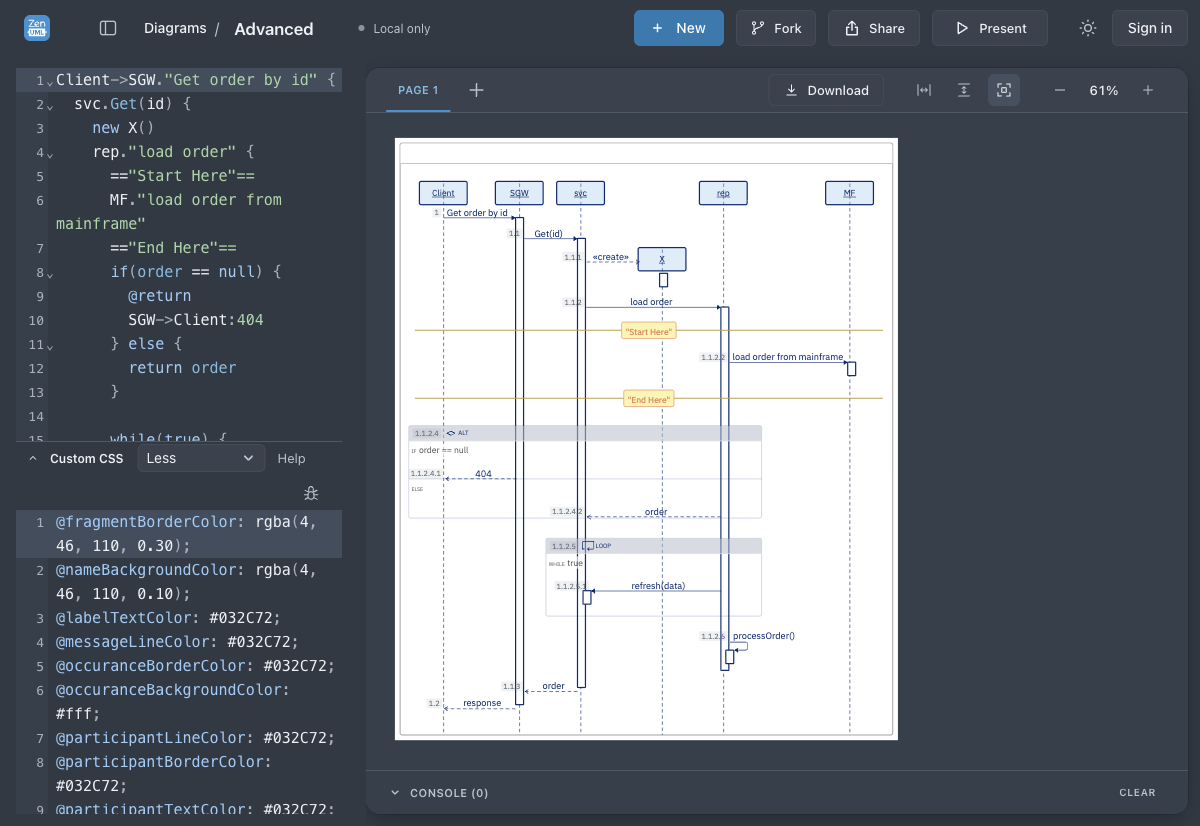
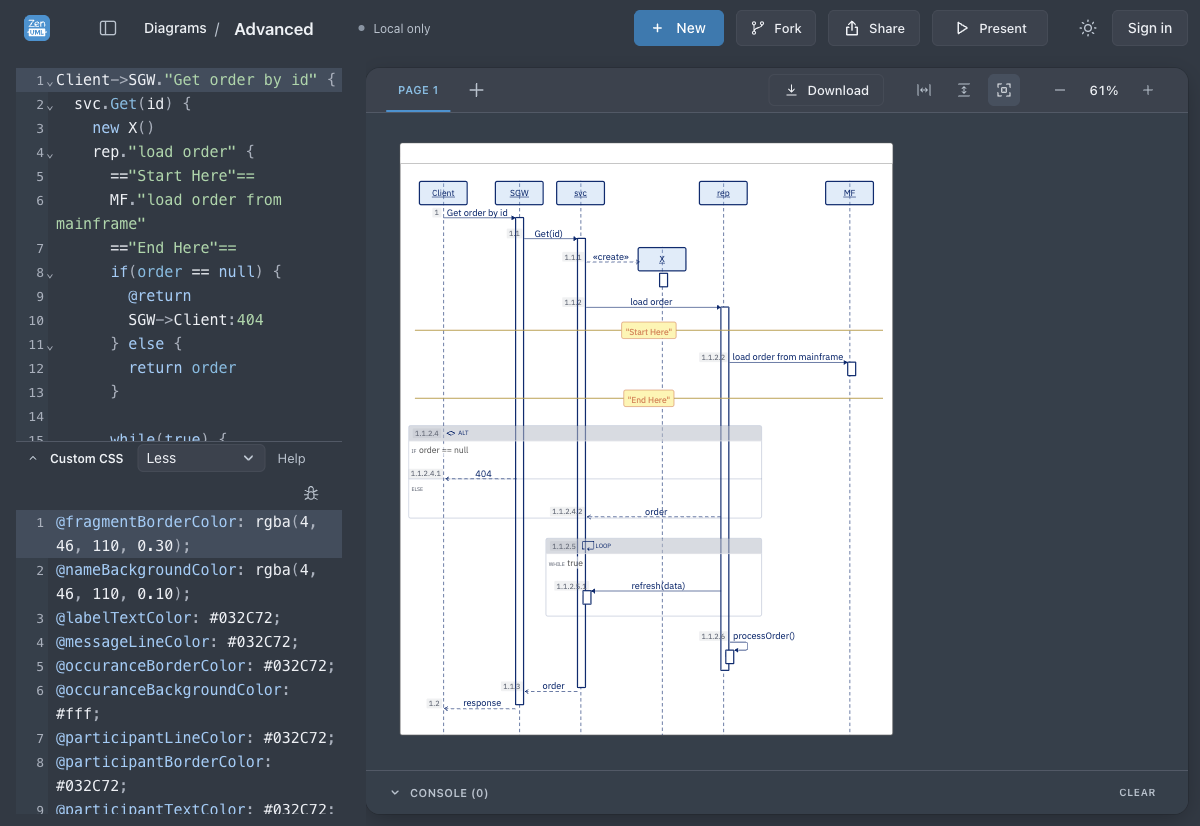
docs: refresh Blue template transparent canvas evidence

Changed region(s): [[0.3083, 0.1513, 0.7708, 0.908]]

diff --git a/artifacts/outer-canvas/report.html b/artifacts/outer-canvas/report.html
@@ -1,3 +1,3 @@
 <!doctype html><html lang="zh"><meta charset="utf-8"><title>外围透明 · 本地实际验证</title><style>
 *{box-sizing:border-box}body{margin:0;background:#f4f6f8;color:#17212e;font:16px/1.6 system-ui,sans-serif}main{max-width:1400px;margin:auto;padding:32px}h1{font-size:30px}h2{margin-top:40px}p{margin:8px 0}header{background:white;padding:24px;border-radius:14px}button{padding:9px 18px;border:1px solid #aeb8c4;border-radius:7px;background:white;cursor:pointer;margin:4px}figure{margin:20px 0;background:white;padding:12px;border-radius:12px}figure img{width:100%;max-height:720px;object-fit:contain}figcaption{font-weight:600}#grid{display:grid;grid-template-columns:repeat(auto-fit,minmax(390px,1fr));gap:18px}article{background:white;border:1px solid #d8dfe7;border-radius:12px;padding:16px}h3{font-size:17px;margin:0 0 12px}.sample{padding:20px;min-height:230px;overflow:auto;background:repeating-conic-gradient(#cad0d8 0% 25%,#f8fafc 0% 50%) 50%/20px 20px}.sample img{max-width:100%;height:auto;display:block;margin:auto}a{color:#075db0}.note{color:#586578}code{background:#e9edf2;padding:2px 5px}</style>
-<main><header><h1>core 外围透明：本地实际效果</h1><p>core 的外围默认不画底色。frame、参与者、文字和显式自定义颜色保留。WS 独立控制工作区背景。</p><p><strong>仅本地候选版本；npm 发布与 WS 合并继续暂停。</strong></p><p class="note">下方为实际 WS 截图与导出文件。切换展示底色只改变图片所在页面，可用来辨认哪些区域确实透明。</p></header><nav><a href="#screens">实际预览</a> · <a href="#exports">直接看导出对比</a></nav><h2 id="screens">实际 WS 预览</h2><figure><img src="ws-light.png"><figcaption>WS 浅色：外围透明，frame 保留浅色</figcaption></figure><figure><img src="ws-dark.png"><figcaption>WS 深色：工作区底色由 WS 控制</figcaption></figure><figure><img src="ws-blue-dark.png"><figcaption>蓝色模板 + 深色 WS：模板明确白底和蓝色保留</figcaption></figure><figure><img src="blue-template.png" style="max-height:620px"><figcaption>蓝色模板实际 PNG 导出：明确白底和自定义蓝色保留 · <a href="blue-template.png" download>下载原图</a></figcaption></figure><h2 id="exports">导出对比</h2><p>同一张图、不同导出路径：保留透明 / 客户端铺深色底。透明主要位于 frame 外围；frame 内仍有底色。显式自定义半透明底色也单独测试。</p><div><button onclick="bg('checker')">棋盘格</button><button onclick="bg('#ffffff')">白色页面</button><button onclick="bg('#202833')">深色页面</button><button onclick="bg('#efce83')">黄色页面</button></div><div id="grid"><article><h3>浅色-html-png-保留透明</h3><div class="sample"><img src="theme-default-html-png-alpha-raster.png"></div><p>476 × 390 · 透明像素 26728 · 半透明 36</p><p>左上角 RGBA：[0, 0, 0, 0]</p><a href="theme-default-html-png-alpha.png" download>下载实际 PNG 文件</a></article><article><h3>浅色-html-png-铺深色底</h3><div class="sample"><img src="theme-default-html-png-backed-raster.png"></div><p>476 × 390 · 透明像素 0 · 半透明 0</p><p>左上角 RGBA：[32, 40, 51, 255]</p><a href="theme-default-html-png-backed.png" download>下载实际 PNG 文件</a></article><article><h3>浅色-html-svg-保留透明</h3><div class="sample"><img src="theme-default-html-svg-alpha-raster.png"></div><p>238 × 195 · 透明像素 6676 · 半透明 28</p><p>左上角 RGBA：[0, 0, 0, 0]</p><a href="theme-default-html-svg-alpha.svg" download>下载实际 SVG 文件</a></article><article><h3>浅色-html-svg-铺深色底</h3><div class="sample"><img src="theme-default-html-svg-backed-raster.png"></div><p>238 × 195 · 透明像素 0 · 半透明 0</p><p>左上角 RGBA：[32, 40, 51, 255]</p><a href="theme-default-html-svg-backed.svg" download>下载实际 SVG 文件</a></article><article><h3>浅色-svg-png-保留透明</h3><div class="sample"><img src="theme-default-svg-png-alpha-raster.png"></div><p>444 × 358 · 透明像素 40 · 半透明 36</p><p>左上角 RGBA：[0, 0, 0, 0]</p><a href="theme-default-svg-png-alpha.png" download>下载实际 PNG 文件</a></article><article><h3>浅色-svg-png-铺深色底</h3><div class="sample"><img src="theme-default-svg-png-backed-raster.png"></div><p>444 × 358 · 透明像素 0 · 半透明 0</p><p>左上角 RGBA：[32, 40, 51, 255]</p><a href="theme-default-svg-png-backed.png" download>下载实际 PNG 文件</a></article><article><h3>浅色-svg-svg-保留透明</h3><div class="sample"><img src="theme-default-svg-svg-alpha-raster.png"></div><p>222 × 179 · 透明像素 4 · 半透明 28</p><p>左上角 RGBA：[0, 0, 0, 0]</p><a href="theme-default-svg-svg-alpha.svg" download>下载实际 SVG 文件</a></article><article><h3>浅色-svg-svg-铺深色底</h3><div class="sample"><img src="theme-default-svg-svg-backed-raster.png"></div><p>222 × 179 · 透明像素 0 · 半透明 0</p><p>左上角 RGBA：[32, 40, 51, 255]</p><a href="theme-default-svg-svg-backed.svg" download>下载实际 SVG 文件</a></article><article><h3>深色-html-png-保留透明</h3><div class="sample"><img src="theme-dark-html-png-alpha-raster.png"></div><p>476 × 390 · 透明像素 26728 · 半透明 36</p><p>左上角 RGBA：[0, 0, 0, 0]</p><a href="theme-dark-html-png-alpha.png" download>下载实际 PNG 文件</a></article><article><h3>深色-html-png-铺深色底</h3><div class="sample"><img src="theme-dark-html-png-backed-raster.png"></div><p>476 × 390 · 透明像素 0 · 半透明 0</p><p>左上角 RGBA：[32, 40, 51, 255]</p><a href="theme-dark-html-png-backed.png" download>下载实际 PNG 文件</a></article><article><h3>深色-html-svg-保留透明</h3><div class="sample"><img src="theme-dark-html-svg-alpha-raster.png"></div><p>238 × 195 · 透明像素 6676 · 半透明 28</p><p>左上角 RGBA：[0, 0, 0, 0]</p><a href="theme-dark-html-svg-alpha.svg" download>下载实际 SVG 文件</a></article><article><h3>深色-html-svg-铺深色底</h3><div class="sample"><img src="theme-dark-html-svg-backed-raster.png"></div><p>238 × 195 · 透明像素 0 · 半透明 0</p><p>左上角 RGBA：[32, 40, 51, 255]</p><a href="theme-dark-html-svg-backed.svg" download>下载实际 SVG 文件</a></article><article><h3>深色-svg-png-保留透明</h3><div class="sample"><img src="theme-dark-svg-png-alpha-raster.png"></div><p>444 × 358 · 透明像素 40 · 半透明 36</p><p>左上角 RGBA：[0, 0, 0, 0]</p><a href="theme-dark-svg-png-alpha.png" download>下载实际 PNG 文件</a></article><article><h3>深色-svg-png-铺深色底</h3><div class="sample"><img src="theme-dark-svg-png-backed-raster.png"></div><p>444 × 358 · 透明像素 0 · 半透明 0</p><p>左上角 RGBA：[32, 40, 51, 255]</p><a href="theme-dark-svg-png-backed.png" download>下载实际 PNG 文件</a></article><article><h3>深色-svg-svg-保留透明</h3><div class="sample"><img src="theme-dark-svg-svg-alpha-raster.png"></div><p>222 × 179 · 透明像素 4 · 半透明 28</p><p>左上角 RGBA：[0, 0, 0, 0]</p><a href="theme-dark-svg-svg-alpha.svg" download>下载实际 SVG 文件</a></article><article><h3>深色-svg-svg-铺深色底</h3><div class="sample"><img src="theme-dark-svg-svg-backed-raster.png"></div><p>222 × 179 · 透明像素 0 · 半透明 0</p><p>左上角 RGBA：[32, 40, 51, 255]</p><a href="theme-dark-svg-svg-backed.svg" download>下载实际 SVG 文件</a></article><article><h3>custom-colors-保留透明</h3><div class="sample"><img src="custom-colors-alpha-raster.png"></div><p>476 × 390 · 透明像素 26728 · 半透明 36</p><p>左上角 RGBA：[0, 0, 0, 0]</p><a href="custom-colors-alpha.png" download>下载实际 PNG 文件</a></article><article><h3>author-half-保留透明</h3><div class="sample"><img src="author-half-alpha-raster.png"></div><p>476 × 390 · 透明像素 0 · 半透明 26764</p><p>左上角 RGBA：[255, 0, 0, 128]</p><a href="author-half-alpha.png" download>下载实际 PNG 文件</a></article><article><h3>author-half-铺深色底</h3><div class="sample"><img src="author-half-backed-raster.png"></div><p>476 × 390 · 透明像素 0 · 半透明 0</p><p>左上角 RGBA：[144, 20, 25, 255]</p><a href="author-half-backed.png" download>下载实际 PNG 文件</a></article></div><p><a href="export-matrix.json">查看全部像素采样记录</a> · <a href="compositing-comparison.json">8 组铺底合成对比：最大误差 1/255</a></p><script>function bg(c){document.querySelectorAll('.sample').forEach(e=>e.style.background=c==='checker'?'repeating-conic-gradient(#cad0d8 0% 25%,#f8fafc 0% 50%) 50%/20px 20px':c)}</script></main></html>
+<main><header><h1>core 外围透明：本地实际效果</h1><p>core 的外围默认不画底色。frame、参与者、文字和显式自定义颜色保留。WS 独立控制工作区背景。</p><p><strong>仅本地候选版本；npm 发布与 WS 合并继续暂停。</strong></p><p class="note">下方为实际 WS 截图与导出文件。切换展示底色只改变图片所在页面，可用来辨认哪些区域确实透明。</p></header><nav><a href="#screens">实际预览</a> · <a href="#exports">直接看导出对比</a></nav><h2 id="screens">实际 WS 预览</h2><figure><img src="ws-light.png"><figcaption>WS 浅色：外围透明，frame 保留浅色</figcaption></figure><figure><img src="ws-dark.png"><figcaption>WS 深色：工作区底色由 WS 控制</figcaption></figure><figure><img src="ws-blue-dark.png"><figcaption>蓝色模板 + 深色 WS：外围透明，frame 白底与蓝色元素保留</figcaption></figure><figure><div class="sample"><img src="blue-template.png" style="max-height:620px"></div><figcaption>蓝色模板实际 PNG 导出：外围透明，frame 白底和自定义蓝色保留 · <a href="blue-template.png" download>下载原图</a></figcaption></figure><h2 id="exports">导出对比</h2><p>同一张图、不同导出路径：保留透明 / 客户端铺深色底。透明主要位于 frame 外围；frame 内仍有底色。显式自定义半透明底色也单独测试。</p><div><button onclick="bg('checker')">棋盘格</button><button onclick="bg('#ffffff')">白色页面</button><button onclick="bg('#202833')">深色页面</button><button onclick="bg('#efce83')">黄色页面</button></div><div id="grid"><article><h3>浅色-html-png-保留透明</h3><div class="sample"><img src="theme-default-html-png-alpha-raster.png"></div><p>476 × 390 · 透明像素 26728 · 半透明 36</p><p>左上角 RGBA：[0, 0, 0, 0]</p><a href="theme-default-html-png-alpha.png" download>下载实际 PNG 文件</a></article><article><h3>浅色-html-png-铺深色底</h3><div class="sample"><img src="theme-default-html-png-backed-raster.png"></div><p>476 × 390 · 透明像素 0 · 半透明 0</p><p>左上角 RGBA：[32, 40, 51, 255]</p><a href="theme-default-html-png-backed.png" download>下载实际 PNG 文件</a></article><article><h3>浅色-html-svg-保留透明</h3><div class="sample"><img src="theme-default-html-svg-alpha-raster.png"></div><p>238 × 195 · 透明像素 6676 · 半透明 28</p><p>左上角 RGBA：[0, 0, 0, 0]</p><a href="theme-default-html-svg-alpha.svg" download>下载实际 SVG 文件</a></article><article><h3>浅色-html-svg-铺深色底</h3><div class="sample"><img src="theme-default-html-svg-backed-raster.png"></div><p>238 × 195 · 透明像素 0 · 半透明 0</p><p>左上角 RGBA：[32, 40, 51, 255]</p><a href="theme-default-html-svg-backed.svg" download>下载实际 SVG 文件</a></article><article><h3>浅色-svg-png-保留透明</h3><div class="sample"><img src="theme-default-svg-png-alpha-raster.png"></div><p>444 × 358 · 透明像素 40 · 半透明 36</p><p>左上角 RGBA：[0, 0, 0, 0]</p><a href="theme-default-svg-png-alpha.png" download>下载实际 PNG 文件</a></article><article><h3>浅色-svg-png-铺深色底</h3><div class="sample"><img src="theme-default-svg-png-backed-raster.png"></div><p>444 × 358 · 透明像素 0 · 半透明 0</p><p>左上角 RGBA：[32, 40, 51, 255]</p><a href="theme-default-svg-png-backed.png" download>下载实际 PNG 文件</a></article><article><h3>浅色-svg-svg-保留透明</h3><div class="sample"><img src="theme-default-svg-svg-alpha-raster.png"></div><p>222 × 179 · 透明像素 4 · 半透明 28</p><p>左上角 RGBA：[0, 0, 0, 0]</p><a href="theme-default-svg-svg-alpha.svg" download>下载实际 SVG 文件</a></article><article><h3>浅色-svg-svg-铺深色底</h3><div class="sample"><img src="theme-default-svg-svg-backed-raster.png"></div><p>222 × 179 · 透明像素 0 · 半透明 0</p><p>左上角 RGBA：[32, 40, 51, 255]</p><a href="theme-default-svg-svg-backed.svg" download>下载实际 SVG 文件</a></article><article><h3>深色-html-png-保留透明</h3><div class="sample"><img src="theme-dark-html-png-alpha-raster.png"></div><p>476 × 390 · 透明像素 26728 · 半透明 36</p><p>左上角 RGBA：[0, 0, 0, 0]</p><a href="theme-dark-html-png-alpha.png" download>下载实际 PNG 文件</a></article><article><h3>深色-html-png-铺深色底</h3><div class="sample"><img src="theme-dark-html-png-backed-raster.png"></div><p>476 × 390 · 透明像素 0 · 半透明 0</p><p>左上角 RGBA：[32, 40, 51, 255]</p><a href="theme-dark-html-png-backed.png" download>下载实际 PNG 文件</a></article><article><h3>深色-html-svg-保留透明</h3><div class="sample"><img src="theme-dark-html-svg-alpha-raster.png"></div><p>238 × 195 · 透明像素 6676 · 半透明 28</p><p>左上角 RGBA：[0, 0, 0, 0]</p><a href="theme-dark-html-svg-alpha.svg" download>下载实际 SVG 文件</a></article><article><h3>深色-html-svg-铺深色底</h3><div class="sample"><img src="theme-dark-html-svg-backed-raster.png"></div><p>238 × 195 · 透明像素 0 · 半透明 0</p><p>左上角 RGBA：[32, 40, 51, 255]</p><a href="theme-dark-html-svg-backed.svg" download>下载实际 SVG 文件</a></article><article><h3>深色-svg-png-保留透明</h3><div class="sample"><img src="theme-dark-svg-png-alpha-raster.png"></div><p>444 × 358 · 透明像素 40 · 半透明 36</p><p>左上角 RGBA：[0, 0, 0, 0]</p><a href="theme-dark-svg-png-alpha.png" download>下载实际 PNG 文件</a></article><article><h3>深色-svg-png-铺深色底</h3><div class="sample"><img src="theme-dark-svg-png-backed-raster.png"></div><p>444 × 358 · 透明像素 0 · 半透明 0</p><p>左上角 RGBA：[32, 40, 51, 255]</p><a href="theme-dark-svg-png-backed.png" download>下载实际 PNG 文件</a></article><article><h3>深色-svg-svg-保留透明</h3><div class="sample"><img src="theme-dark-svg-svg-alpha-raster.png"></div><p>222 × 179 · 透明像素 4 · 半透明 28</p><p>左上角 RGBA：[0, 0, 0, 0]</p><a href="theme-dark-svg-svg-alpha.svg" download>下载实际 SVG 文件</a></article><article><h3>深色-svg-svg-铺深色底</h3><div class="sample"><img src="theme-dark-svg-svg-backed-raster.png"></div><p>222 × 179 · 透明像素 0 · 半透明 0</p><p>左上角 RGBA：[32, 40, 51, 255]</p><a href="theme-dark-svg-svg-backed.svg" download>下载实际 SVG 文件</a></article><article><h3>custom-colors-保留透明</h3><div class="sample"><img src="custom-colors-alpha-raster.png"></div><p>476 × 390 · 透明像素 26728 · 半透明 36</p><p>左上角 RGBA：[0, 0, 0, 0]</p><a href="custom-colors-alpha.png" download>下载实际 PNG 文件</a></article><article><h3>author-half-保留透明</h3><div class="sample"><img src="author-half-alpha-raster.png"></div><p>476 × 390 · 透明像素 0 · 半透明 26764</p><p>左上角 RGBA：[255, 0, 0, 128]</p><a href="author-half-alpha.png" download>下载实际 PNG 文件</a></article><article><h3>author-half-铺深色底</h3><div class="sample"><img src="author-half-backed-raster.png"></div><p>476 × 390 · 透明像素 0 · 半透明 0</p><p>左上角 RGBA：[144, 20, 25, 255]</p><a href="author-half-backed.png" download>下载实际 PNG 文件</a></article></div><p><a href="export-matrix.json">查看全部像素采样记录</a> · <a href="compositing-comparison.json">8 组铺底合成对比：最大误差 1/255</a></p><script>function bg(c){document.querySelectorAll('.sample').forEach(e=>e.style.background=c==='checker'?'repeating-conic-gradient(#cad0d8 0% 25%,#f8fafc 0% 50%) 50%/20px 20px':c)}</script></main></html>

diff --git a/artifacts/outer-canvas/README.md b/artifacts/outer-canvas/README.md
@@ -8,9 +8,11 @@ Open [report.html](report.html) for actual WS screenshots and downloadable expor
 - Web: 1,671 unit tests passed, 1 existing skip; typecheck/build passed; 5 native-dark browser tests and 2 root diagram-page browser tests passed against the local candidate.
 - export-matrix.json: 19 actual samples covering light/dark, HTML/native SVG, PNG/SVG, transparent/explicit backing and custom alpha/colors.
 - compositing-comparison.json: all 8 transparent-image-on-backing versus directly-backed export pairs have max channel delta 1/255; no pixel differs by more than 1.
-- blue-template.png: actual compiled Blue template export, retaining explicitly authored white canvas and blue colors.
+- blue-template.png: actual compiled Blue template export, outer corners alpha 0, retaining white frame (alpha 255) and blue element colors.
 - preview-paints.json plus ws-dark.png: CSS transparency and actual Chromium compositing checked separately. iframe color-scheme: normal avoids the browser's forced white fill on a mismatched child document.
 
 Frame and element colors remain painted. Only the default outer canvas is transparent. Native SVG has less outer padding than HTML; this work validates background/alpha semantics, not identical HTML/SVG geometry. Backing colors are explicit opaque named/hex/RGB values supported by core; author gradients and alpha remain content paint. Custom HTML CSS still requires PNG in WS.
 
 npm publication, WebSequence merge, push and deployments remain paused. No production release occurred during this local task.
+
+Blue follow-up (`55530f3d`): new and exact previously generated bundled Blue CSS now keep the outer canvas transparent. Author-edited CSS is preserved. 20 focused unit tests, typecheck and both Blue browser cases passed; actual PNG corners alpha 0 and frame alpha 255.
